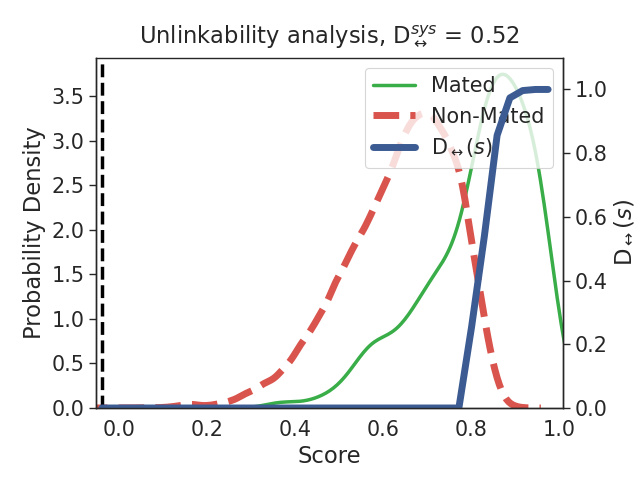
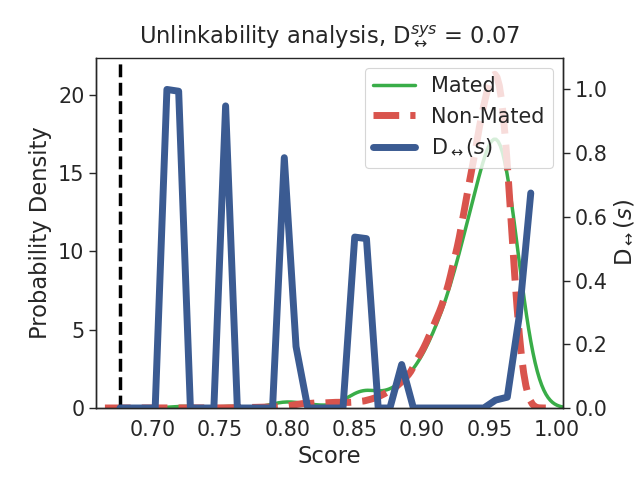
legacy

diff --git a/002_test.py b/002_test.py
@@ -144,13 +144,13 @@ def main():
     test_dataset = datasets.ImagesDataset(args=args, data_type="LED", phase='test')
     test_loader = DataLoader(test_dataset, batch_size=args.batch_size, shuffle=False, num_workers=args.workers)
     model = load_backbone(args)
-    # result = psnr_ssim_calculation(args, model, test_loader)
-    # aac,eer_number = eer_calculation(args, model, test_loader)
+    result = psnr_ssim_calculation(args, model, test_loader)
+    aac,eer_number = eer_calculation(args, model, test_loader)
     Dsys = unlinkability_calculation(args, model, test_loader)
-    # result['AAC'] = aac
-    # result['EER'] = eer_number
-    # result['Dsys'] = Dsys
-    # print_results(result)
+    result['AAC'] = aac
+    result['EER'] = eer_number
+    result['Dsys'] = Dsys
+    print_results(result)
     return None
 
 if __name__ == '__main__':

diff --git a/experiment/attacker.py b/experiment/attacker.py
@@ -34,7 +34,7 @@ def comparison_plot(args, model, attacker_model, img_tensor):
     print(imgs.shape)
     with torch.no_grad():
         # Stage 2 (Shuffle)
-        _, _, _, _, _, x_residue_up_s2 = model.obtain_residue(img_tensor)
+        _, _, _, _, _, x_residue_up_s2 = model.obtain_residue(imgs)
         x_residue = model.shuffle(x_residue_up_s2)
         recovered_imgs = attacker_model(x_residue)
 
